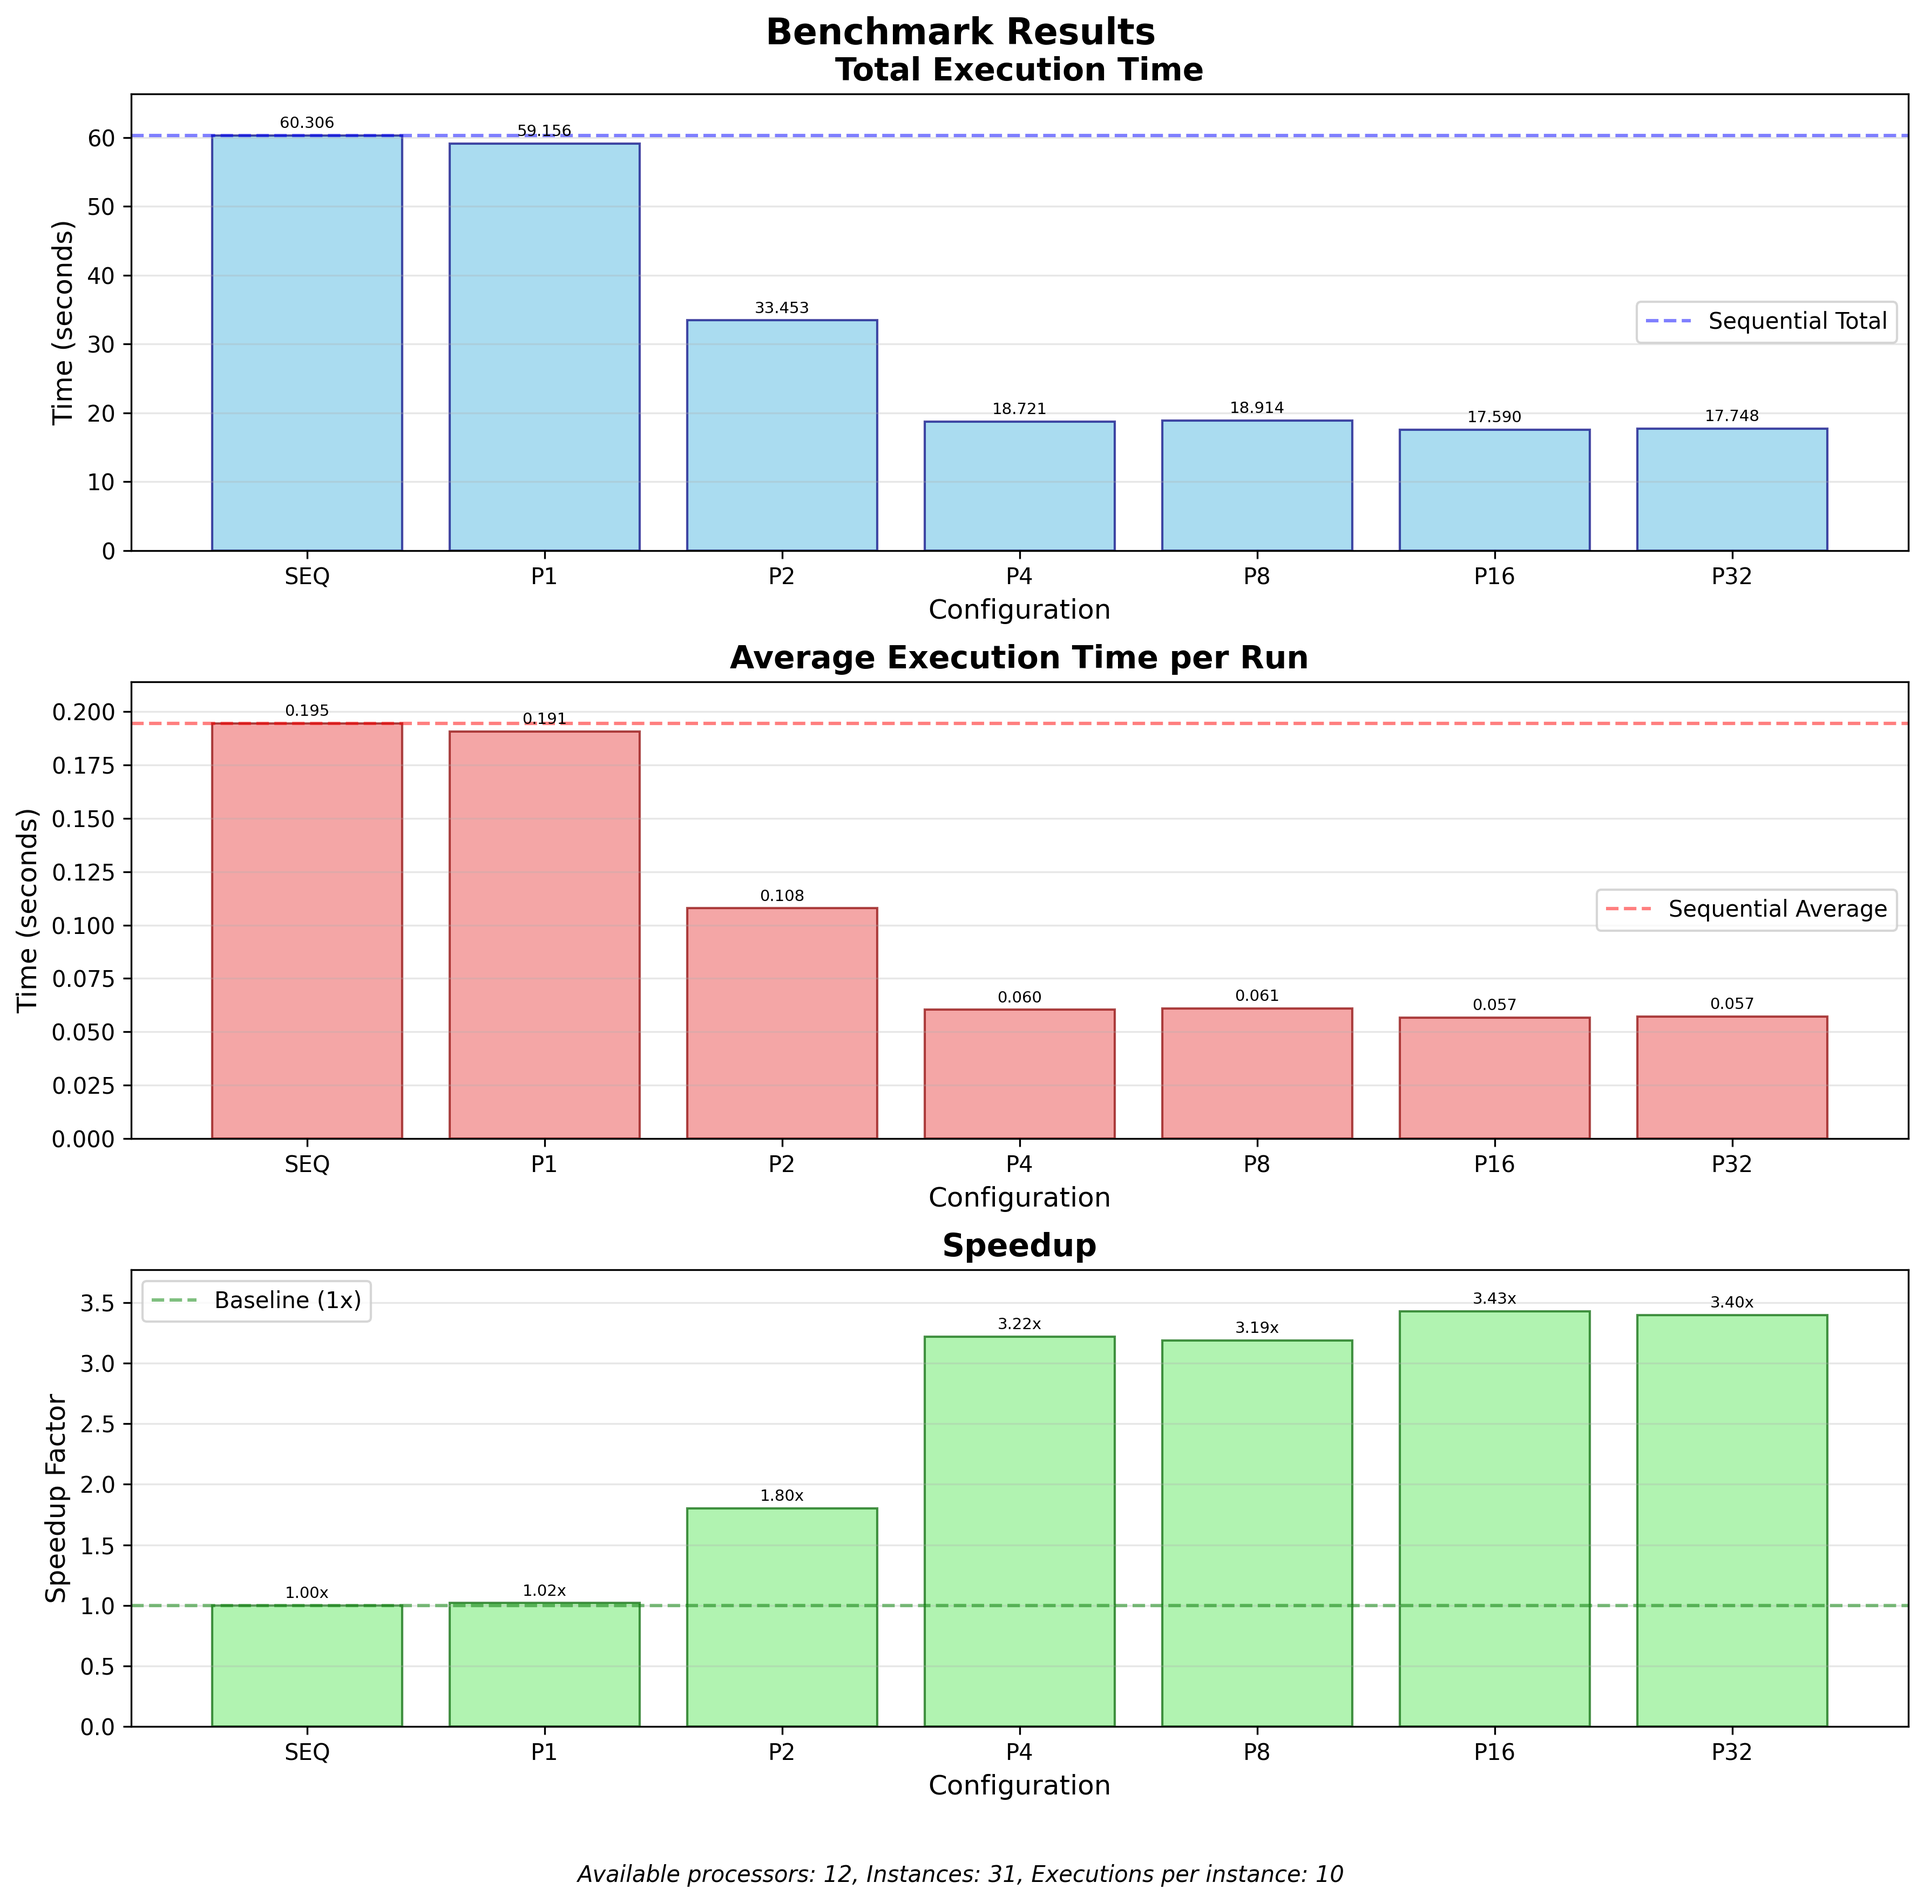
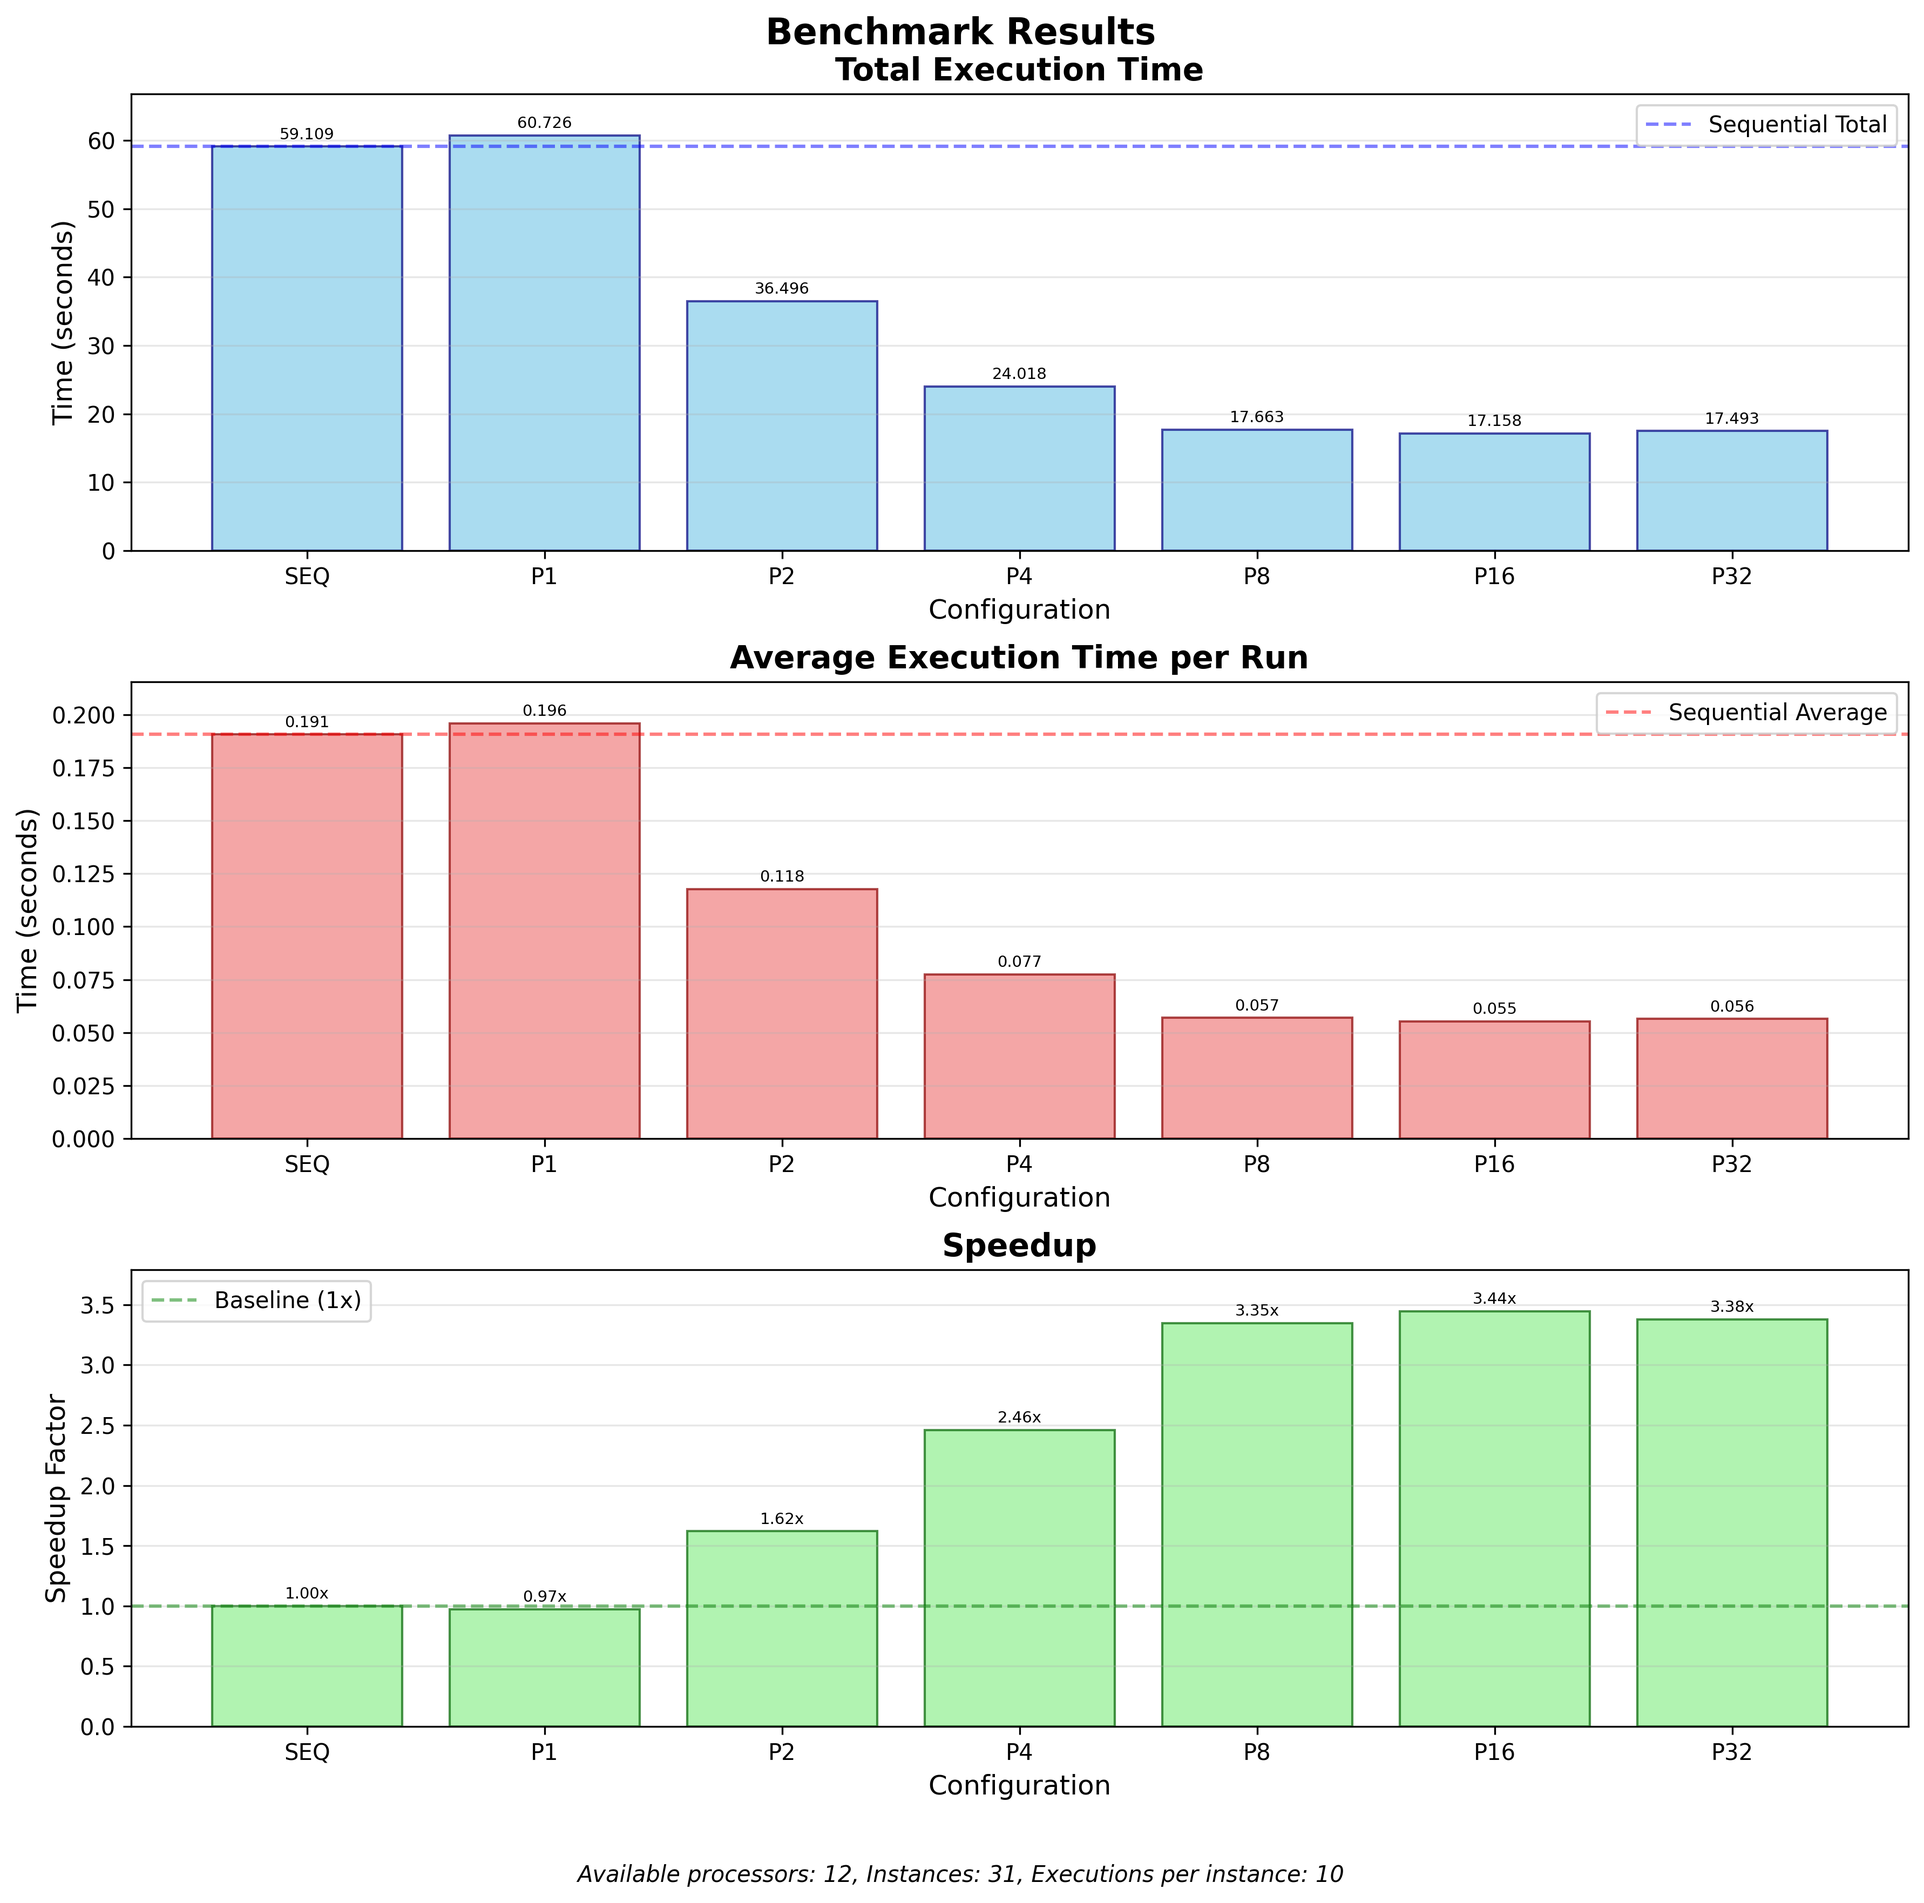
fix: srand

diff --git a/src/parallel.c b/src/parallel.c
@@ -110,7 +110,7 @@ int solve_multi_pass_parallel(const jobshop_t* jss, jobshop_solution_t* solution
 
     // Use solution summaries to track results
     solution_summary_t results[DISPATCH_RULE_COUNT];
-    jobshop_solution_t temp_solutions[DISPATCH_RULE_COUNT];
+    jobshop_solution_t* temp_solutions = malloc(sizeof(jobshop_solution_t) * num_threads);
 
     // Try different dispatch rules
     dispatch_rule_t rules[] = {
@@ -125,13 +125,17 @@ int solve_multi_pass_parallel(const jobshop_t* jss, jobshop_solution_t* solution
 
     int num_rules = sizeof(rules) / sizeof(rules[0]);
 
-    // #pragma omp parallel for
-#pragma omp parallel for schedule(dynamic)
-    for (int i = 0; i < num_rules; i++) {
-        int makespan = solve_with_dispatch_rule_parallel(jss, &temp_solutions[i], rules[i]);
+#pragma omp parallel
+    {
+        int thread_id = omp_get_thread_num();
+        srand(time(NULL) + thread_id);
+#pragma omp for schedule(dynamic)
+        for (int i = 0; i < num_rules; i++) {
+            int makespan = solve_with_dispatch_rule_parallel(jss, &temp_solutions[i], rules[i]);
 
-        results[i].makespan = makespan;
-        results[i].rule_used = rules[i];
+            results[i].makespan = makespan;
+            results[i].rule_used = rules[i];
+        }
     }
 
     // Find best result

diff --git a/src/main.c b/src/main.c
@@ -1,13 +1,13 @@
 #define _POSIX_C_SOURCE 200809L
-#include <getopt.h>
-#include <stdbool.h>
-#include <stdio.h>
-#include <stdlib.h>
-
 #include "jobshop.h"
 #include "parallel.h"
 #include "sequential.h"
 #include "utils.h"
+#include <getopt.h>
+#include <omp.h>
+#include <stdbool.h>
+#include <stdio.h>
+#include <stdlib.h>
 
 #define DEFAULT_OUTPUT_DIR "./output"
 
@@ -37,7 +37,7 @@ int main(int argc, char** argv) {
     char* output_file = NULL;
     jobshop_t jss;
     jobshop_solution_t solution;
-    int num_threads = get_optimal_thread_count();
+    int num_threads = omp_get_max_threads();
 
     static struct option long_options[] = {
         { "sequential", no_argument, 0, 's' },

diff --git a/src/utils.c b/src/utils.c
@@ -1,16 +1,9 @@
 #include "utils.h"
 #include "jobshop.h"
-#include <omp.h>
 #include <stdio.h>
 #include <stdlib.h>
 #include <string.h>
 #include <time.h>
-
-int get_optimal_thread_count() {
-    int max_threads = omp_get_max_threads();
-    // return max_threads;
-    return (max_threads > DISPATCH_RULE_COUNT) ? DISPATCH_RULE_COUNT : max_threads;
-}
 
 int calculate_remaining_work(const jobshop_t* jss, int job_id, int op_idx) {
     int remaining_work = 0;
